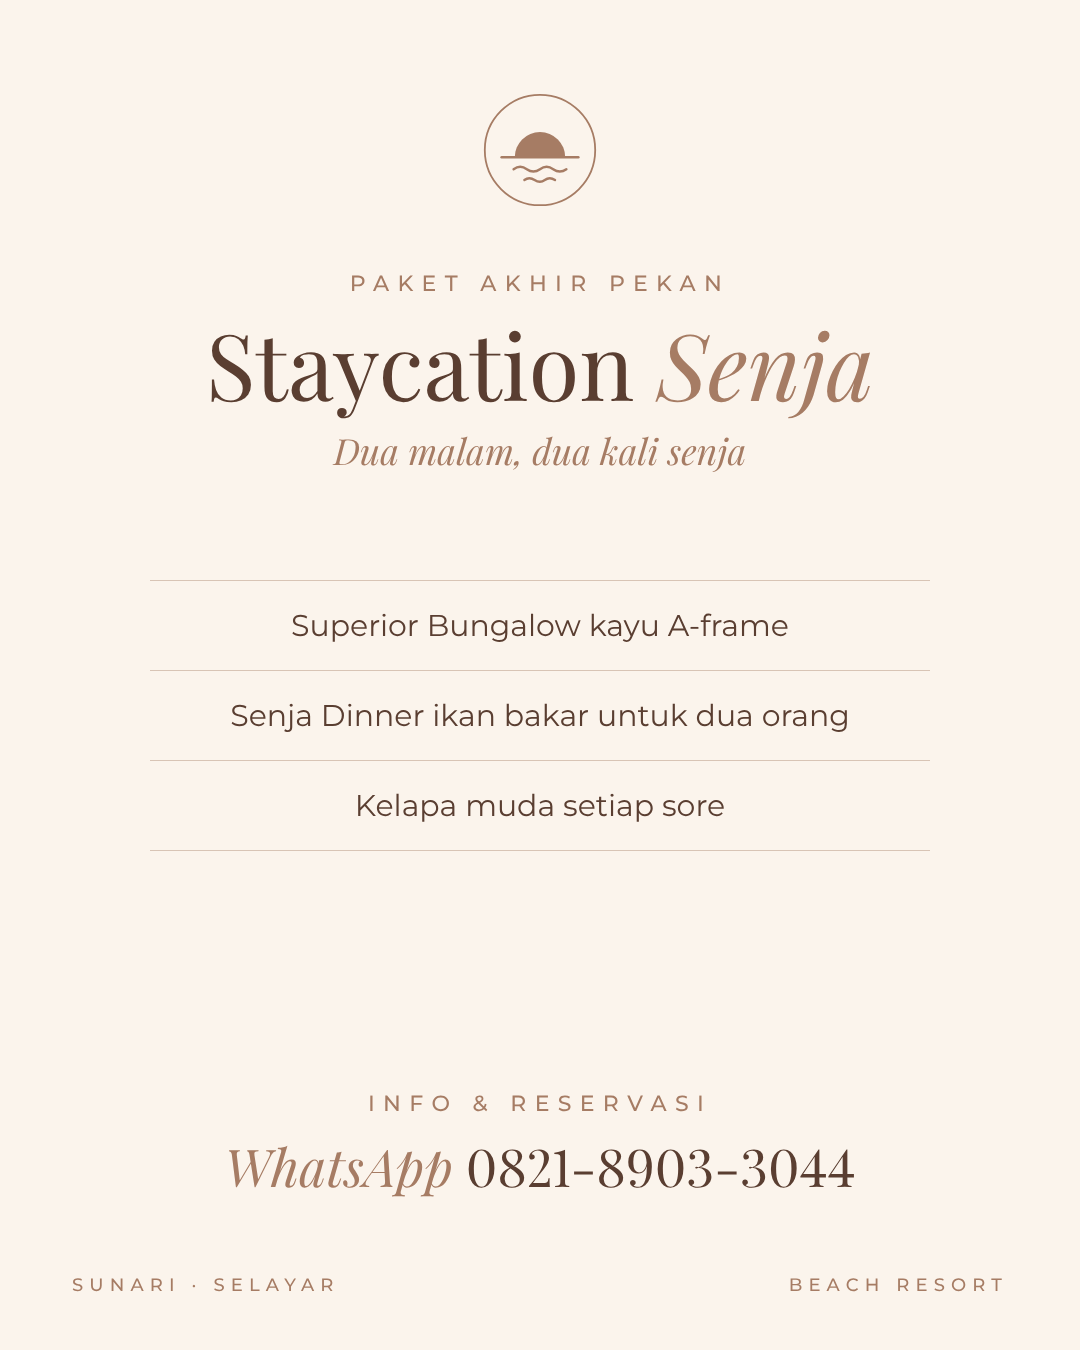
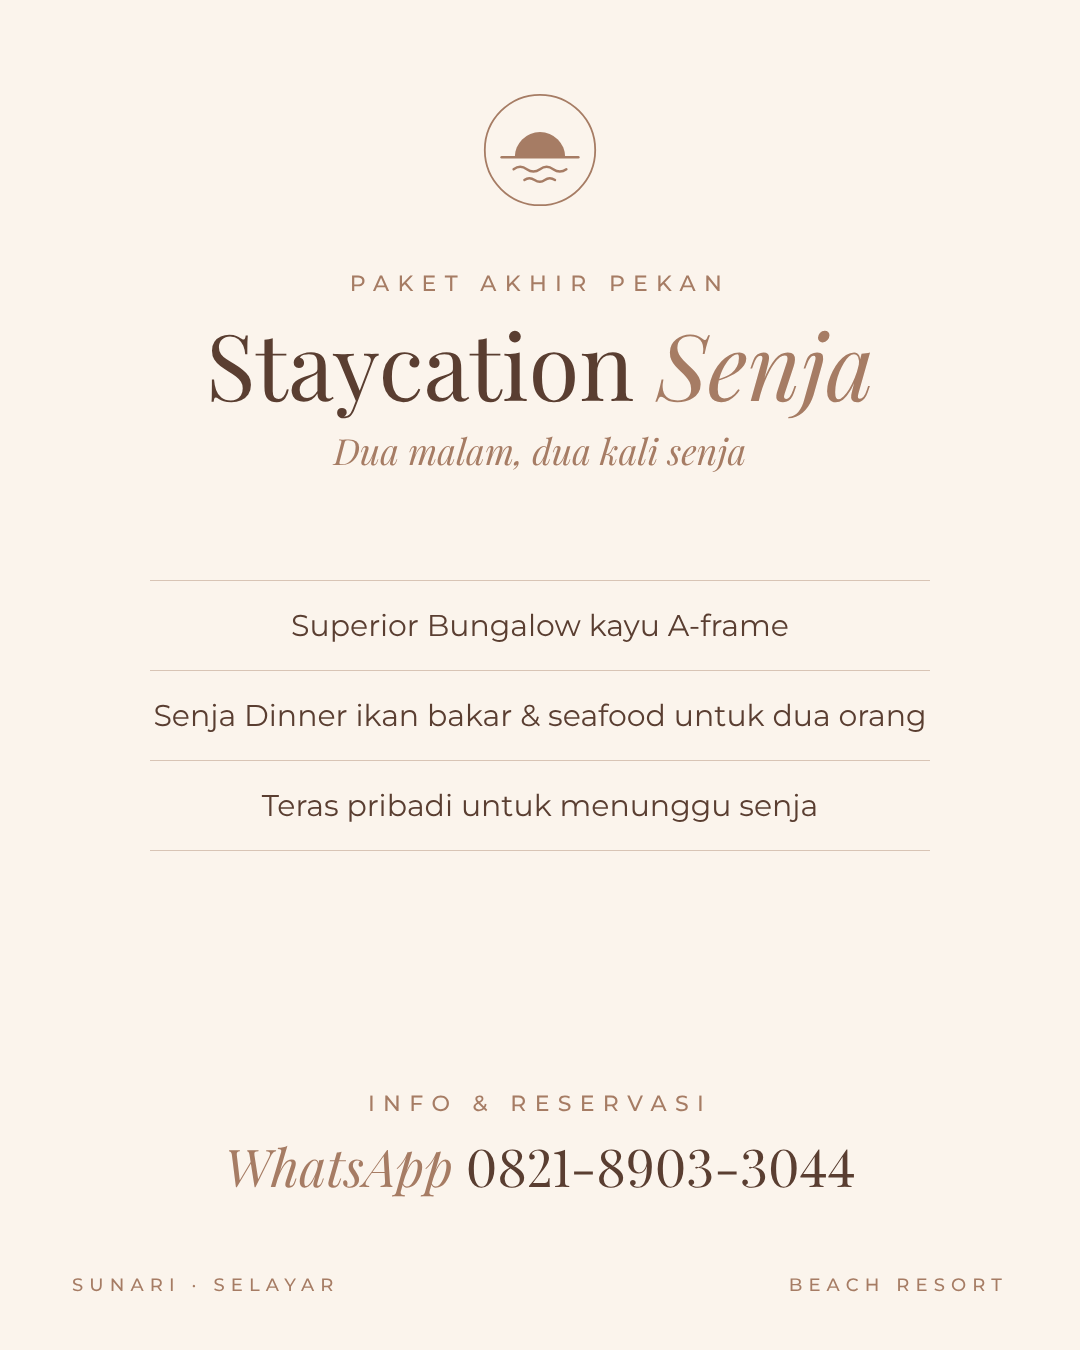
Remove unconfirmed services; add airport/port pickup; cover all 5 room types in captions
Claude-Session: https://claude.ai/code/session_01AizaiBQtsTmWERPRfEgVV4

Changed region(s): [[0.1528, 0.4978, 0.8556, 0.56], [0.2444, 0.5911, 0.7639, 0.6222]]

diff --git a/social/kit.html b/social/kit.html
@@ -99,7 +99,7 @@ body{background:#ddd6cc;font-family:Montserrat,sans-serif;padding:40px;display:f
     <h2 style="font-size:92px">Staycation <span class="it">Senja</span></h2>
     <div class="it" style="font-size:36px;margin-top:14px">Dua malam, dua kali senja</div>
   </div>
-  <ul style="top:580px"><li>Superior Bungalow kayu A-frame</li><li>Senja Dinner ikan bakar untuk dua orang</li><li>Kelapa muda setiap sore</li></ul>
+  <ul style="top:580px"><li>Superior Bungalow kayu A-frame</li><li>Senja Dinner ikan bakar &amp; seafood untuk dua orang</li><li>Teras pribadi untuk menunggu senja</li></ul>
   <div class="cta"><div class="caps">Info &amp; Reservasi</div><div class="wa"><span>WhatsApp</span> 0821-8903-3044</div></div>
   <div class="foot"><span class="caps">SunaRi · Selayar</span><span class="caps">Beach Resort</span></div>
 </div>

diff --git a/social/grid.html b/social/grid.html
@@ -13,7 +13,7 @@
 <div><div class="user">sunari.selayar</div><div class="name">SunaRi Beach Resort Selayar</div>
 <div class="bio">🌅 Tempat senja pulang
 🌴 Resort tepi pantai di Kepulauan Selayar
-🥥 Kelapa muda setiap sore
+🍽 Senja Dinner ikan bakar & seafood
 📩 WA 0821-8903-3044 ⬇
 <a>wa.me/6282189033044</a></div></div></div>
 <div class="tabs"></div><div class="g"><img src="camp-1.png" alt=""><img src="feed-senja.png" alt=""><img src="carousel/vs-1.png" alt=""><img src="feed-values.png" alt=""><img src="carousel/vp-1.png" alt=""><img src="feed-quote.png" alt=""><img src="carousel/vs-5.png" alt=""><img src="feed-promo.png" alt=""><img src="carousel/fs-1.png" alt=""></div></div></body></html>

diff --git a/social/build_kit.py b/social/build_kit.py
@@ -52,7 +52,7 @@ CAMPAIGN = [
 ]
 VALUES = [("wave","Tepi Pantai"),("sun","Menghadap Senja"),("leaf","Alami & Lokal"),("moon","Tenang & Pelan")]
 PROMO = dict(kicker="Paket Akhir Pekan", title="Staycation", title_it="Senja", sub="Dua malam, dua kali senja",
-             items=["Superior Bungalow kayu A-frame","Senja Dinner ikan bakar untuk dua orang","Kelapa muda setiap sore"])
+             items=["Superior Bungalow kayu A-frame","Senja Dinner ikan bakar & seafood untuk dua orang","Teras pribadi untuk menunggu senja"])
 QUOTE = dict(text="Setiap hari di Selayar<br>berakhir dengan <em>indah.</em>", en="Where every day ends beautifully")
 # Feed order shown in grid-preview.png (newest first)
 GRID = ["camp-1","feed-senja","carousel/vs-1","feed-values","carousel/vp-1","feed-quote","carousel/vs-5","feed-promo","carousel/fs-1"]
@@ -253,7 +253,7 @@ grid = f'''<!doctype html><html lang="id"><head><meta charset="utf-8"><title>Sun
 <div><div class="user">sunari.selayar</div><div class="name">SunaRi Beach Resort Selayar</div>
 <div class="bio">🌅 Tempat senja pulang
 🌴 Resort tepi pantai di Kepulauan Selayar
-🥥 Kelapa muda setiap sore
+🍽 Senja Dinner ikan bakar & seafood
 📩 WA {WA} ⬇
 <a>wa.me/6282189033044</a></div></div></div>
 <div class="tabs"></div><div class="g">{tiles}</div></div></body></html>'''

diff --git a/social/INSTAGRAM_BULAN_1.md b/social/INSTAGRAM_BULAN_1.md
@@ -21,7 +21,7 @@
 ```
 🌅 Tempat senja pulang
 🌴 Resort tepi pantai di Kepulauan Selayar
-🥥 Kelapa muda setiap sore
+🍽 Senja Dinner ikan bakar & seafood
 📩 WA 0821-8903-3044 ⬇
 ```
 
@@ -29,7 +29,7 @@
 ```
 Resort tepi pantai menghadap senja 🌅
 📍 Pantai Tile-Tile, Bontosikuyu, Selayar
-🌊 Gerbang ke Taka Bonerate
+🚐 Antar-jemput bandara & pelabuhan
 📩 WA 0821-8903-3044 ⬇
 ```
 
@@ -142,9 +142,9 @@ dan justru itu yang membuatnya istimewa.
 ```
 
 **Hari 5 · Reels · Senja**
-*Visual:* POV duduk di pasir, tangan memegang kelapa muda, matahari turun.
+*Visual:* POV duduk di pasir, kaki menyentuh air, matahari turun.
 ```
-POV: jam [jam] WITA, kelapa muda di tangan, kaki di pasir. 🥥
+POV: jam [jam] WITA, kaki di pasir, langit mulai oranye. 🌅
 
 Tidak ada notifikasi yang lebih penting dari ini.
 
@@ -175,7 +175,8 @@ Ada dua pilihan dari Makassar:
 Dari Benteng (ibu kota Selayar), SunaRi ada di KM 14 jalan poros Benteng–Appatana,
 Dusun Tile-Tile Utara, Desa Patikarya. 📍 Lokasi lengkap di highlight "Cara ke Sini".
 
-Detail jadwal ada di slide. Tim kami juga siap bantu atur penjemputan:
+Detail jadwal ada di slide.
+Kami juga menyediakan antar-jemput dari bandara atau pelabuhan (biaya tambahan):
 WA 0821-8903-3044 (Sofyan).
 Simpan postingan ini untuk liburanmu nanti!
 
@@ -191,7 +192,8 @@ Simpan postingan ini untuk liburanmu nanti!
 Siang di bawah laut, sore di bawah senja. 🐠🌅
 
 Taka Bonerate, salah satu atol terbesar di dunia,
-ada di Kepulauan Selayar. Dari SunaRi, kami bisa bantu atur perjalananmu ke sana.
+ada di Kepulauan Selayar.
+Siang menjelajah lautnya, sore kembali ke SunaRi untuk menunggu senja.
 
 #TakaBonerate #Selayar #DiveIndonesia #PesonaSelayar #SunaRiSelayar
 ```
@@ -208,18 +210,20 @@ Tag orang yang ingin kamu ajak ke sini.
 #SenjaHariIni #SunaRiSelayar #Selayar #SunsetLovers
 ```
 
-**Hari 10 · Carousel · Pengalaman**
-*Visual:* tahapan Sunset Ritual: lonceng/tanda, kelapa muda, tamu berkumpul, matahari terbenam.
+**Hari 10 · Carousel (siap: `social/carousel/fs-1…6.png`) · Kamar (Keluarga)**
+*Visual:* room tour Family Superior Bungalow, 6 slide.
 ```
-Ritual kecil kami setiap sore: Sunset Ritual. 🥥
+Satu rumah, dua lantai, semua bersama. 👨👩👧👦🌴
 
-30 menit sebelum matahari terbenam,
-kami menyajikan kelapa muda untuk semua tamu di tepi pantai.
-Tanpa jadwal yang ketat, tanpa terburu-buru. Hanya duduk dan menunggu.
+Family Superior Bungalow muat untuk 6 orang,
+bahkan sampai 8 orang dengan tambahan 2 extra bed.
+Kamar utama di lantai bawah, empat kasur di lantai atas,
+dan teras pribadi yang luas untuk berkumpul sebelum senja. 🌅
 
-Gratis untuk semua tamu yang menginap.
+Geser untuk melihat ke dalam.
+Info & reservasi: WA 0821-8903-3044.
 
-#SunaRiSelayar #SenjaHariIni #Selayar #ResortIndonesia
+#SunaRiSelayar #LiburanKeluarga #FamilyTrip #Selayar #RoomTour
 ```
 
 **Hari 11 · Reels · Kamar**
@@ -236,13 +240,13 @@ Info & reservasi: WA 0821-8903-3044.
 ```
 
 **Hari 12 · Feed · Pesona Selayar (Kuliner)**
-*Visual:* ikan bakar segar dengan sambal dan nasi di meja kayu tepi pantai.
+*Visual:* ikan bakar dengan sambal dan nasi di meja restoran SunaRi.
 ```
-Ikan pagi tadi masih berenang di laut Selayar.
-Malam ini sudah jadi ikan bakar di mejamu. 🐟🔥
+Ikan bakar, sambal, dan nasi hangat. 🐟🔥
+Rasa sederhana yang paling pas dinikmati setelah seharian di pantai.
 
-Kami bekerja sama dengan nelayan lokal,
-jadi yang kamu santap selalu segar dan ikut menghidupi warga sekitar.
+Restoran SunaRi menyajikan ikan bakar dan seafood setiap hari.
+Mau makan malam saat senja? Pesan Senja Dinner H-1 via WhatsApp 0821-8903-3044.
 
 #KulinerSelayar #SunaRiSelayar #Selayar #SeafoodLovers
 ```
@@ -295,16 +299,19 @@ Di sini, kamu punya waktu untuk itu.
 #SenjaHariIni #SunaRiSelayar #SlowTravel #Selayar
 ```
 
-**Hari 17 · Reels · Pengalaman**
-*Visual:* perahu nelayan berlayar saat golden hour, tamu duduk di haluan.
+**Hari 17 · Carousel (siap: `social/carousel/vs-1…6.png`) · Kamar**
+*Visual:* room tour VIP Superior Bungalow, 6 slide (bathtub di bawah atap kaca sebagai sorotan).
 ```
-Sunset Boat: berlayar dengan perahu nelayan
-saat langit Selayar berubah oranye. ⛵🌅
+Berendam di bawah langit terbuka. 🛁🌴
 
-Durasi ± 1,5 jam, termasuk minuman hangat.
-Bisa dipesan saat check-in atau via WhatsApp.
+VIP Superior Bungalow: rumah kayu A-frame dengan loteng,
+teras pribadi yang teduh, dan kamar mandi semi-outdoor
+dengan bathtub di bawah atap kaca. Pohon kelapa tepat di atas kepala.
 
-#SunaRiSelayar #SunsetBoat #Selayar #PesonaSelayar
+Geser untuk melihat ke dalam.
+Info & reservasi: WA 0821-8903-3044.
+
+#SunaRiSelayar #RoomTour #Selayar #BathtubWithAView #ResortIndonesia
 ```
 
 **Hari 18 · Carousel (siap: `social/carousel/vp-1…6.png`) · Kamar & Fasilitas**
@@ -369,9 +376,9 @@ kami akan repost favorit setiap minggu.
 ```
 Staycation Senja: 2 malam, 2 kali senja. 🌅
 
-✔ Superior Bungalow kayu A-frame dengan teras pribadi
-✔ Senja Dinner ikan bakar untuk 2 orang
-✔ Kelapa muda setiap sore
+✔ Superior Bungalow kayu A-frame
+✔ Senja Dinner ikan bakar & seafood untuk 2 orang
+✔ Teras pribadi untuk menunggu senja
 
 Info paket & ketersediaan kamar via WhatsApp.
 Reservasi: WA 0821-8903-3044, link di bio.
@@ -396,9 +403,9 @@ Senja hari ini: [jam] WITA.
 Pertanyaan yang paling sering kami terima 💬
 
 • Jam check-in/check-out? [14.00 / 12.00 WITA]
-• Ada penjemputan dari bandara/pelabuhan? [Ya, dengan biaya tambahan]
-• Ramah anak? [Ya, pantai kami landai]
-• Bisa bantu atur trip ke Taka Bonerate? Bisa!
+• Ada antar-jemput dari bandara/pelabuhan? Ada, dengan biaya tambahan.
+• Ada restoran? Ada. Senja Dinner ikan bakar & seafood bisa dipesan H-1.
+• Cocok untuk keluarga? Ada Family Superior Bungalow untuk 6 orang (maks. 8 dengan extra bed).
 
 Ada pertanyaan lain? Tanya di komentar atau DM.
 
@@ -406,11 +413,11 @@ Ada pertanyaan lain? Tanya di komentar atau DM.
 ```
 
 **Hari 25 · Feed · Pengalaman**
-*Visual:* meja makan di atas pasir dengan lentera saat senja.
+*Visual:* meja makan di restoran SunaRi dengan langit senja di latar belakang.
 ```
 Makan malam dengan pemandangan yang terus berubah warna. 🍽🌅
 
-Senja Dinner di SunaRi: meja di atas pasir,
+Senja Dinner di SunaRi:
 ikan bakar dan seafood segar, dengan langit senja sebagai dekorasinya.
 
 Cocok untuk anniversary, lamaran, atau sekadar merayakan hari biasa.
@@ -444,19 +451,19 @@ Semoga kamu juga bisa menutup hari ini dengan tenang.
 #SenjaHariIni #SunaRiSelayar #Selayar
 ```
 
-**Hari 28 · Feed · Promo (Sunset Guarantee)**
+**Hari 28 · Carousel · Info (Antar-jemput)**
+*Visual:* 3 slide: bandara/pelabuhan → perjalanan menyusuri jalan poros Benteng–Appatana → tiba di SunaRi.
 ```
-Kami percaya diri dengan senja di Selayar.
-Karena itu, kami membuat Sunset Guarantee. 🌅
+Dari bandara atau pelabuhan, langsung ke tepi pantai. 🚐🌴
 
-Jika selama menginap kamu tidak sempat melihat matahari terbenam karena mendung,
-kamu mendapat voucher Senja Dinner untuk kunjungan berikutnya.
+Tidak perlu repot mencari transportasi di Selayar.
+SunaRi menyediakan antar-jemput dari Bandara H. Aroeppala
+maupun pelabuhan, dengan biaya tambahan.
 
-*Syarat & ketentuan berlaku. Tanya via WhatsApp.
+Info & pemesanan: WA 0821-8903-3044.
 
-#SunaRiSelayar #SunsetGuarantee #Selayar #SenjaHariIni
+#SunaRiSelayar #Selayar #InfoWisata #KepulauanSelayar
 ```
-> ⚠ Posting hanya jika program ini sudah disetujui manajemen.
 
 ### PENUTUP BULAN
 
@@ -498,7 +505,7 @@ Sampai jumpa di tempat senja pulang. 🌅
 ## 5. Data yang Perlu Diisi
 - [x] Nomor WhatsApp & alamat
 - [ ] Username Instagram final
-- [ ] Kapasitas tamu tiap tipe kamar
-- [ ] Jam check-in/out, biaya penjemputan
-- [ ] Persetujuan program Sunset Guarantee
+- [ ] Kapasitas tamu Superior, VIP Superior, Standard, VIP Standard
+- [ ] Jam check-in/out (Hari 24)
+- [ ] Foto restoran & Senja Dinner (Hari 12, 25)
 - [ ] Nama & izin foto tim (Hari 15), izin repost tamu (Hari 21)

diff --git a/brand/BRAND_GUIDE.md b/brand/BRAND_GUIDE.md
@@ -39,7 +39,7 @@ pengalaman, dengan suasana tropis yang hangat, segar, dan apa adanya.
 **Nilai inti:** Tenang · Hangat · Segar & Tropis · Lokal · Lestari
 
 **Kepribadian:** ceria tapi santai. Bayangkan teman asli pulau yang mengajak Anda duduk
-di pasir, minum kelapa muda, dan menunggu matahari tenggelam.
+di pasir, minum kopi, dan menunggu matahari tenggelam.
 
 ---
 
@@ -49,7 +49,7 @@ di pasir, minum kelapa muda, dan menunggu matahari tenggelam.
 |---|---|---|
 | Pasangan & honeymoon | Romantis, privat | "Senja untuk berdua." |
 | Keluarga | Aman, pantai landai, aktivitas | "Liburan yang ditutup tawa di tepi pantai." |
-| Penyelam & pencinta laut | Akses Taka Bonerate, snorkeling | "Siang di bawah laut, sore di bawah senja." |
+| Penyelam & pencinta laut | Dekat Taka Bonerate, snorkeling | "Siang di bawah laut, sore di bawah senja." |
 | Wisatawan lokal Sulsel (Makassar, dll.) | Escape akhir pekan | "Selayar lebih dekat dari yang kamu kira." |
 | Slow traveler / remote worker | Tenang, menginap lama | "Kerja secukupnya, senja sepenuhnya." |
 
@@ -139,7 +139,7 @@ Ukuran minimum di desain 1080px: teks isi 28px, label 18px (agar tetap terbaca d
 - Ambil saat **golden hour** (±60 menit sebelum matahari terbenam) dan siang cerah (laut toska).
 - Warna hangat, tidak oversaturated. Pantai putih, laut jernih, siluet daun kelapa.
 - Tampilkan orang yang benar-benar santai, bukan berpose kaku.
-- Rekam detail lokal: kelapa muda, perahu nelayan, ikan bakar, anak-anak bermain di pantai.
+- Rekam detail lokal: perahu nelayan di laut, ikan bakar, taman, anak-anak bermain di pantai.
 - Hindari: filter biru dingin, flash, tumpukan sampah atau kabel di frame.
 
 ### 4.5 Elemen Grafis & Prinsip Layout
@@ -175,11 +175,11 @@ Acuan gaya: `brand/style-reference.jpg` (hanya gaya visual, bukan isi/merek). Pe
 
 - Bahasa utama: **Indonesia**. Tambahkan 1 baris bahasa Inggris untuk wisatawan asing bila perlu.
 - Sapaan: "kamu" di media sosial, "Anda" di dokumen resmi dan email reservasi.
-- Emoji secukupnya: 🌅 🌴 🥥 🌊 (maksimal 3 per caption).
+- Emoji secukupnya: 🌅 🌴 🌊 🍽 (maksimal 3 per caption).
 
 **Contoh caption**
 > 🌅 Senja hari ini di SunaRi: **18.12 WITA**.
-> Kursi di tepi pantai sudah menunggu, kelapa mudanya juga. 🥥
+> Teras sudah menunggu, langitnya sebentar lagi oranye. 🌴
 > *Where every day ends beautifully.*
 > #SunaRiSelayar #SenjaHariIni #Selayar
 
@@ -207,11 +207,13 @@ Acuan gaya: `brand/style-reference.jpg` (hanya gaya visual, bukan isi/merek). Pe
   Kata kunci promosi: *turun tangga, langsung pasir*. Unit terdekat dengan laut; terasnya menghadap langsung ke arah matahari terbenam, jadi paling cocok untuk konten senja.
 
 **Pengalaman**
-- **Sunset Ritual**: 30 menit sebelum senja, tamu disuguhi kelapa muda di tepi pantai.
-- **Senja Dinner** ✅ *(tersedia)*: makan malam di tepi pantai saat senja. Menu: ikan bakar & seafood. Pemesanan H-1 via WhatsApp.
-- **Taka Bonerate Trip**: snorkeling/diving, kembali sebelum senja.
-- **Sunset Boat**: naik perahu nelayan saat golden hour.
-- **Senja Journal**: buku kecil di kamar untuk menulis cerita senja.
+*Hanya layanan yang benar-benar tersedia. Jangan promosikan layanan di luar daftar ini.*
+- **Restoran** ✅: ikan bakar & seafood.
+- **Senja Dinner** ✅: makan malam saat senja di restoran. Menu: ikan bakar & seafood. Pemesanan H-1 via WhatsApp.
+- **Antar-jemput bandara & pelabuhan** ✅: dengan biaya tambahan, dipesan via WhatsApp.
+
+*Tidak tersedia (jangan dipakai di materi): kelapa muda gratis/Sunset Ritual, Sunset Boat, paket trip Taka Bonerate,
+Senja Journal, Sunset Guarantee, klaim kerja sama nelayan.*
 
 ---
 
@@ -261,8 +263,6 @@ Folder `social/`:
 
 ### Ide kampanye peluncuran
 - **"365 Senja Selayar"**: satu video senja 15 detik setiap hari selama setahun.
-- **"Sunset Guarantee"**: jika mendung saat senja selama menginap, tamu mendapat voucher
-  Senja Dinner untuk kunjungan berikutnya.
 - **Kolaborasi** dengan kreator travel Makassar/Sulsel dan operator selam Taka Bonerate.
 
 ---
@@ -283,7 +283,7 @@ Folder `social/`:
 |---|---|
 | **Alamat** | Jl. Poros Benteng – Appatana KM 14, Dusun Tile-Tile Utara, Desa Patikarya, Kecamatan Bontosikuyu, Kabupaten Kepulauan Selayar, Sulawesi Selatan, Indonesia |
 | **Google Maps** | https://maps.app.goo.gl/iUWWHNCT7Vyu4i537 |
-| **Fasilitas umum** | Restoran, Senja Dinner (makan malam di tepi pantai saat senja), terkonfirmasi |
+| **Fasilitas umum** | Restoran, Senja Dinner (pesan H-1), antar-jemput bandara/pelabuhan (berbayar) |
 | **WhatsApp reservasi** | +62 821-8903-3044 (Sofyan) |
 | **Link WA langsung** | `https://wa.me/6282189033044` |
 
